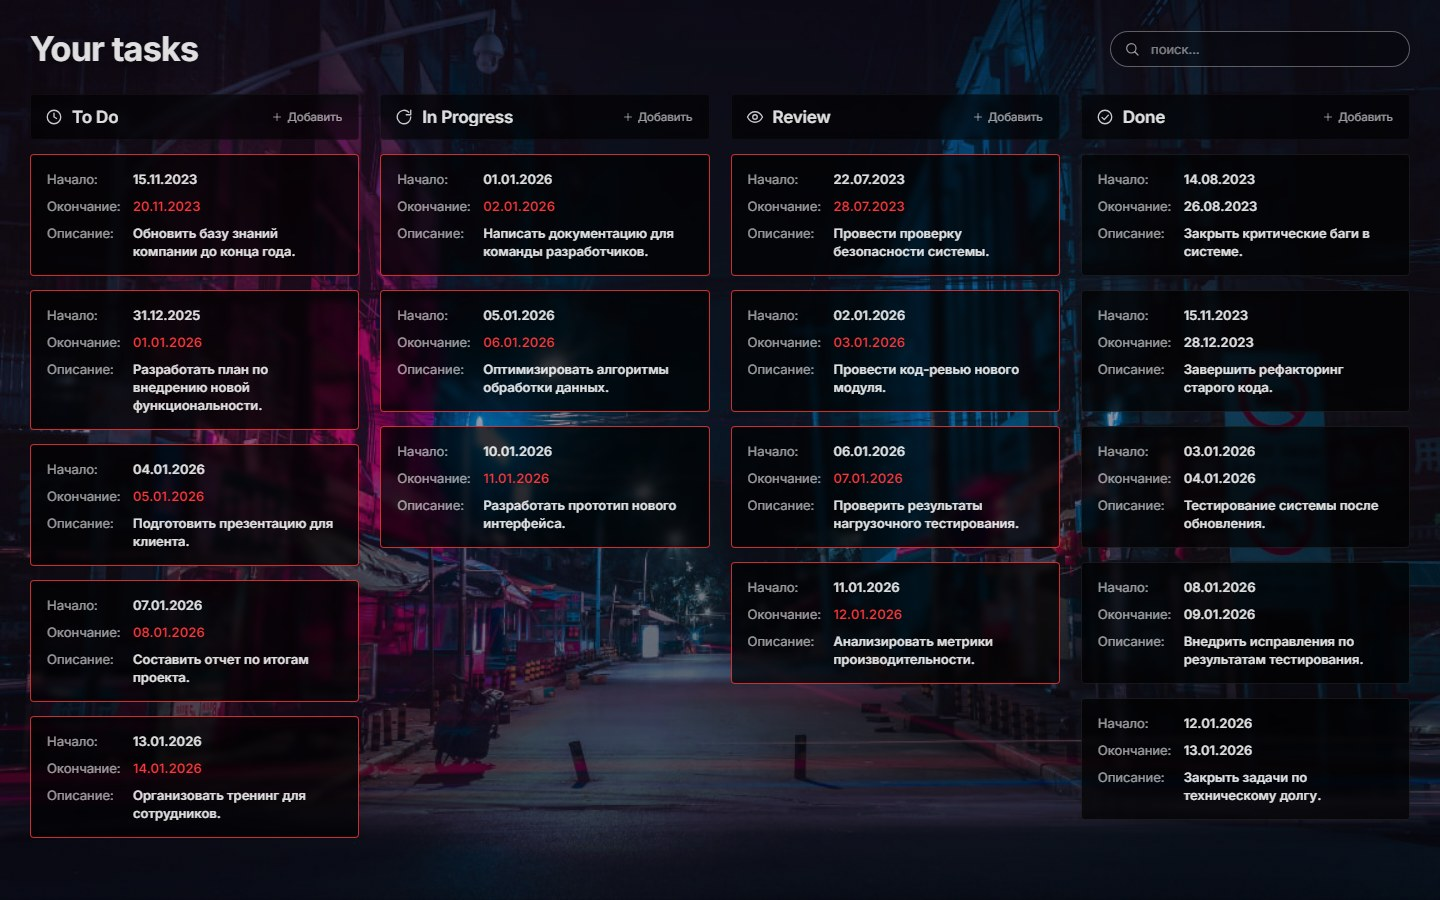
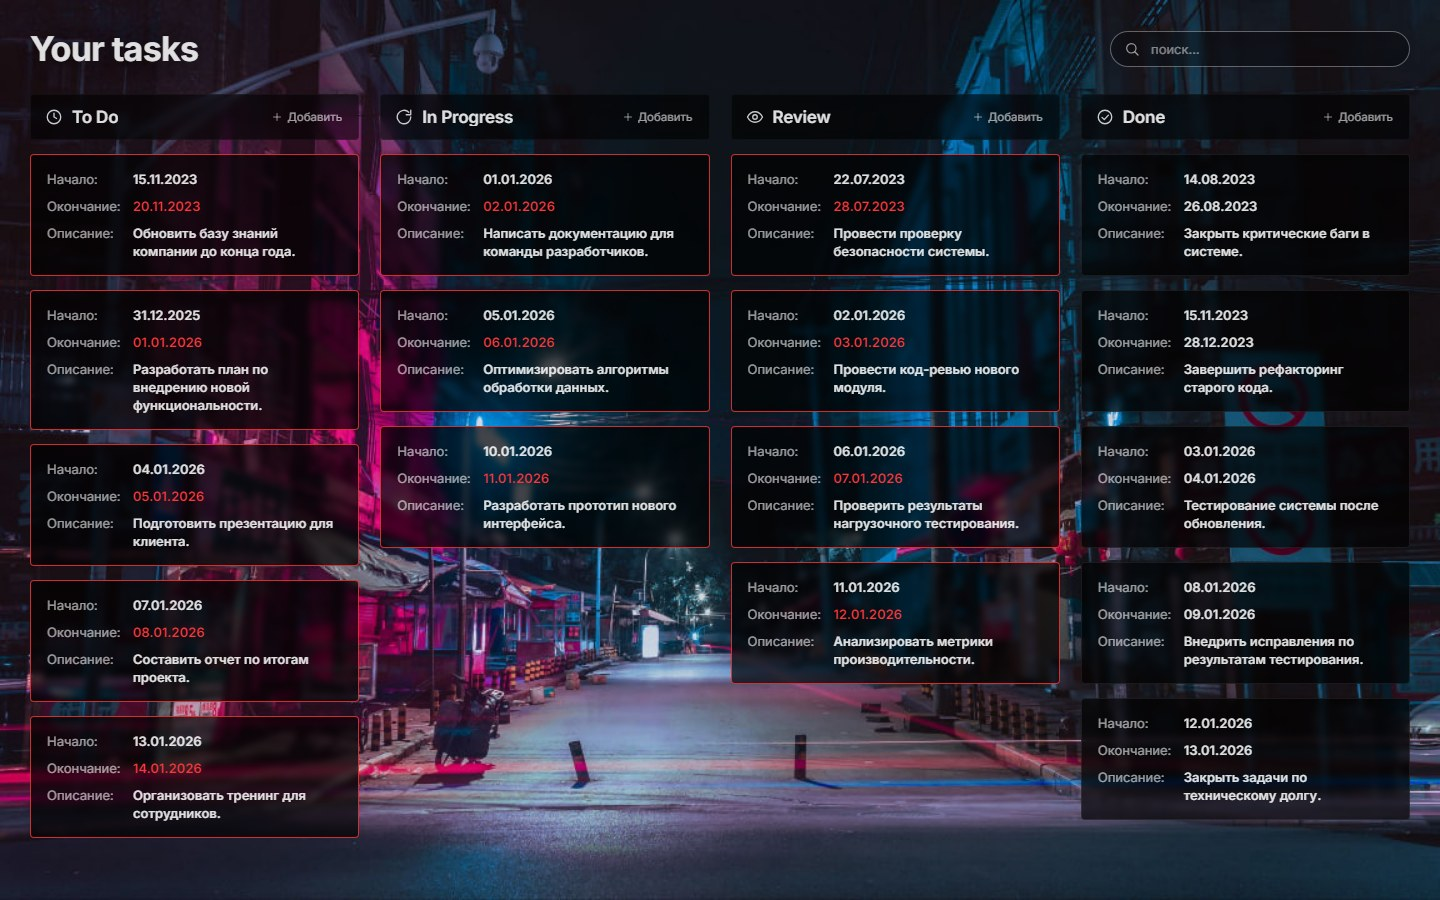
Match design background brightness and improve responsive cards

diff --git a/src/styles.css b/src/styles.css
@@ -37,27 +37,6 @@ body {
   overflow-x: auto;
 }
 
-body::after {
-  content: '';
-  position: fixed;
-  inset: 0;
-  z-index: 0;
-  pointer-events: none;
-  background:
-    radial-gradient(
-      90% 80% at 50% 20%,
-      rgba(34, 10, 60, 0.08) 0%,
-      rgba(5, 7, 17, 0.3) 68%,
-      rgba(3, 5, 13, 0.5) 100%
-    ),
-    linear-gradient(
-      180deg,
-      rgba(6, 3, 14, 0.42) 0%,
-      rgba(3, 8, 18, 0.12) 45%,
-      rgba(3, 5, 12, 0.5) 100%
-    );
-}
-
 #root {
   position: relative;
   z-index: 1;
